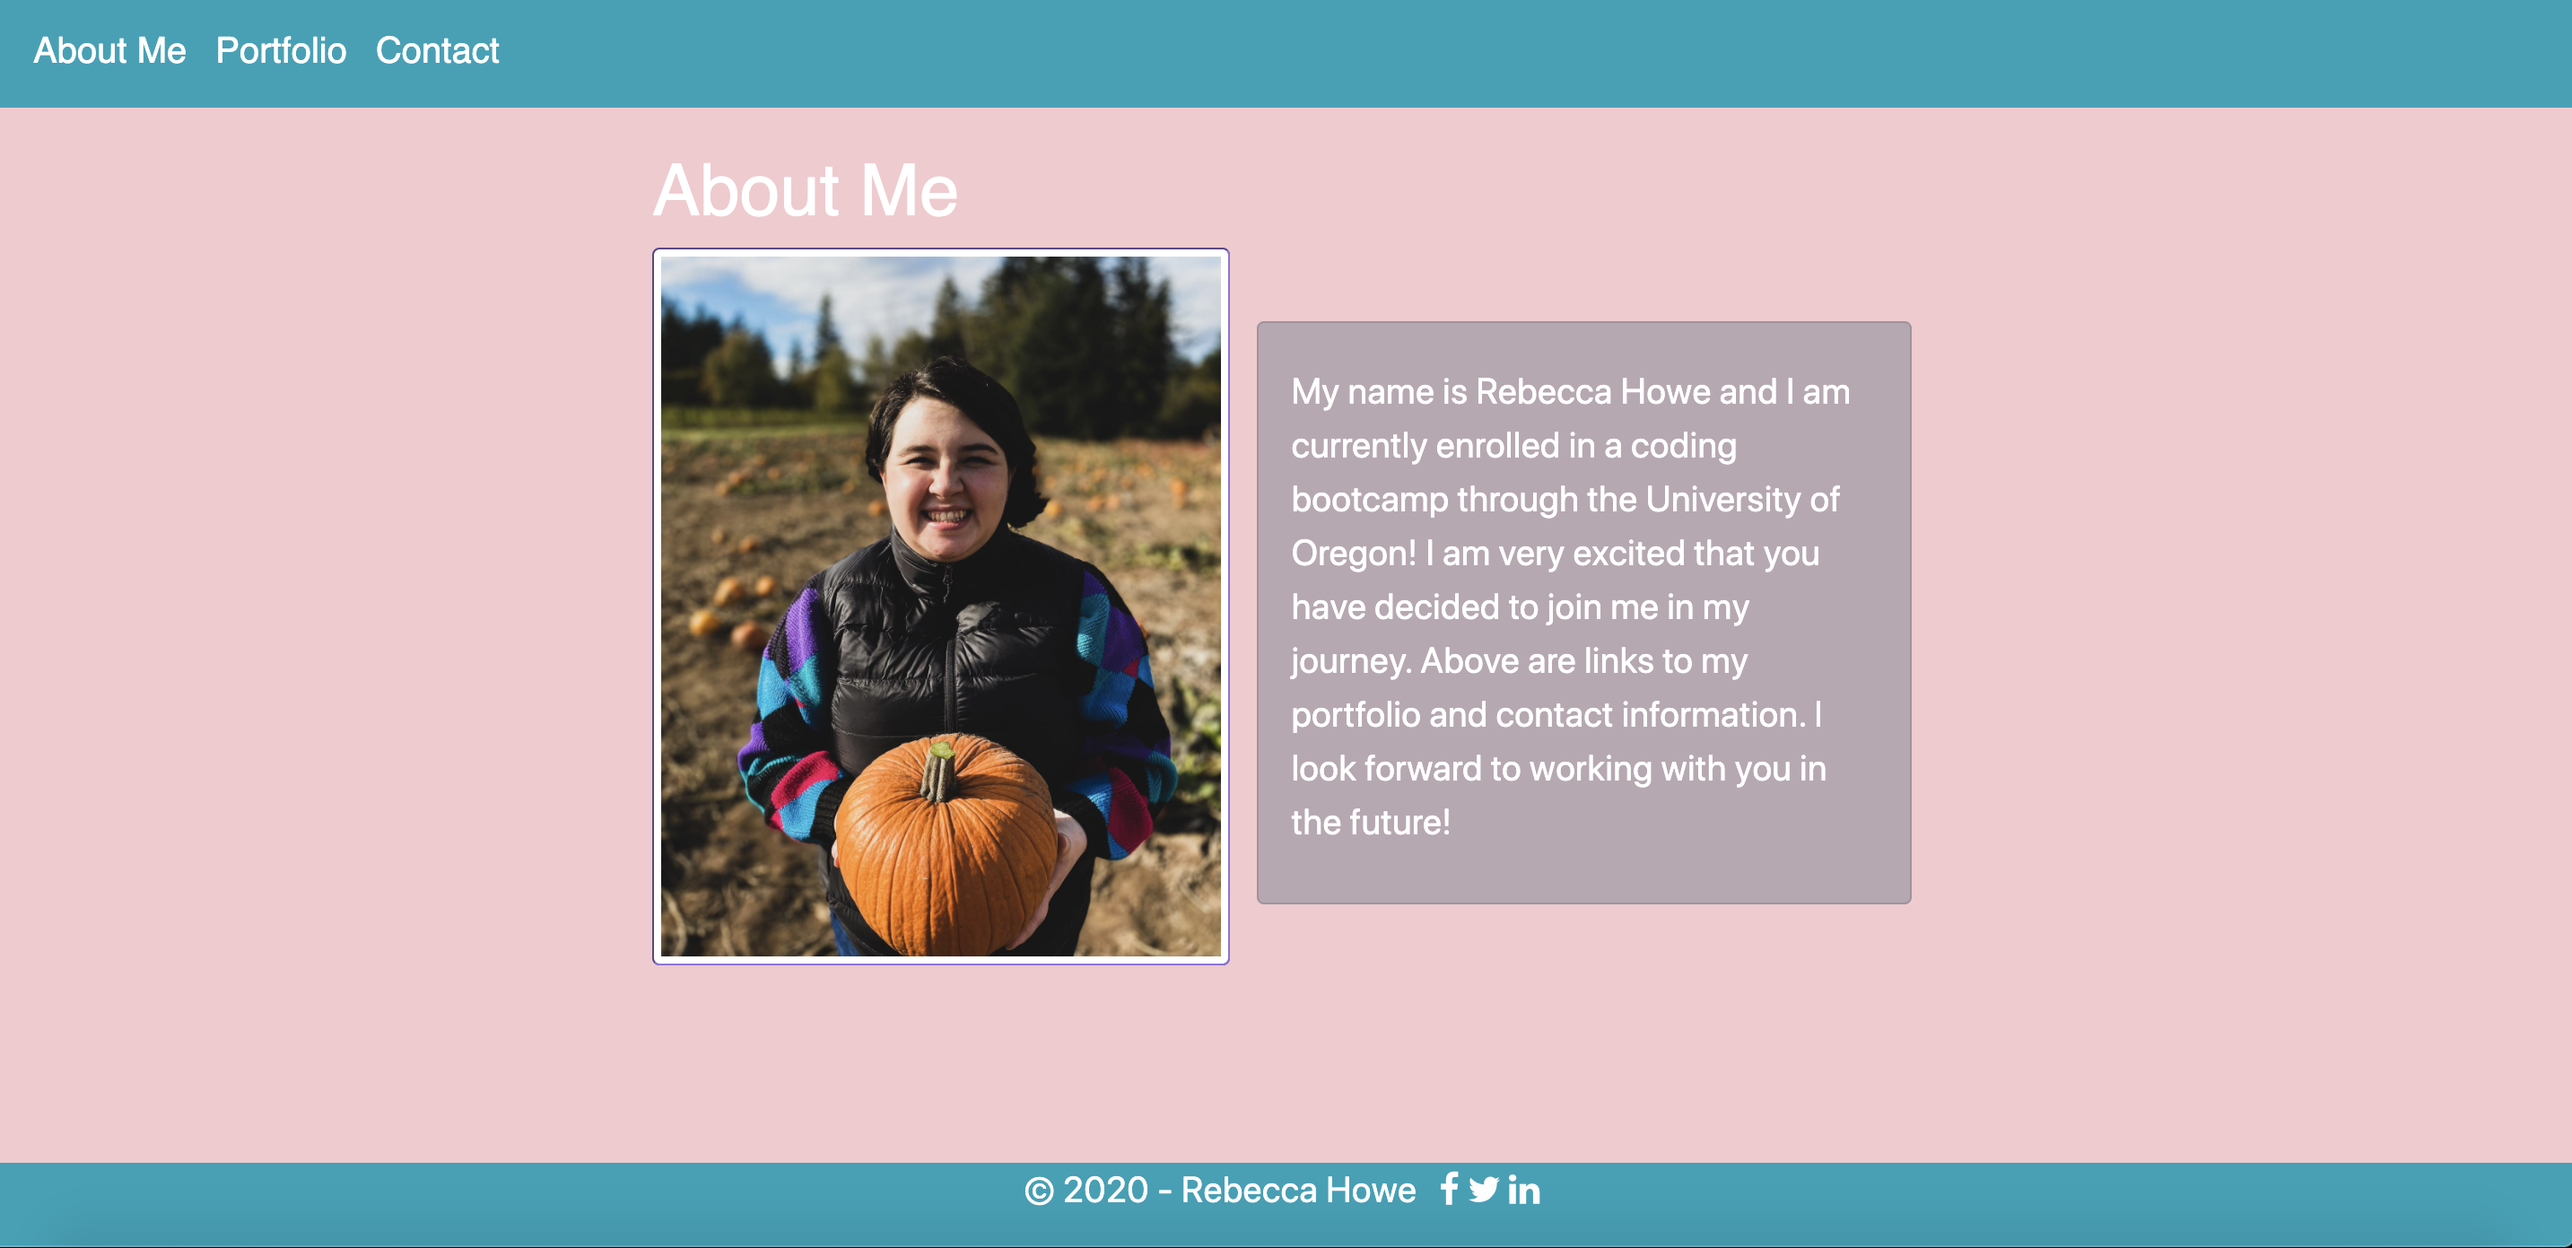
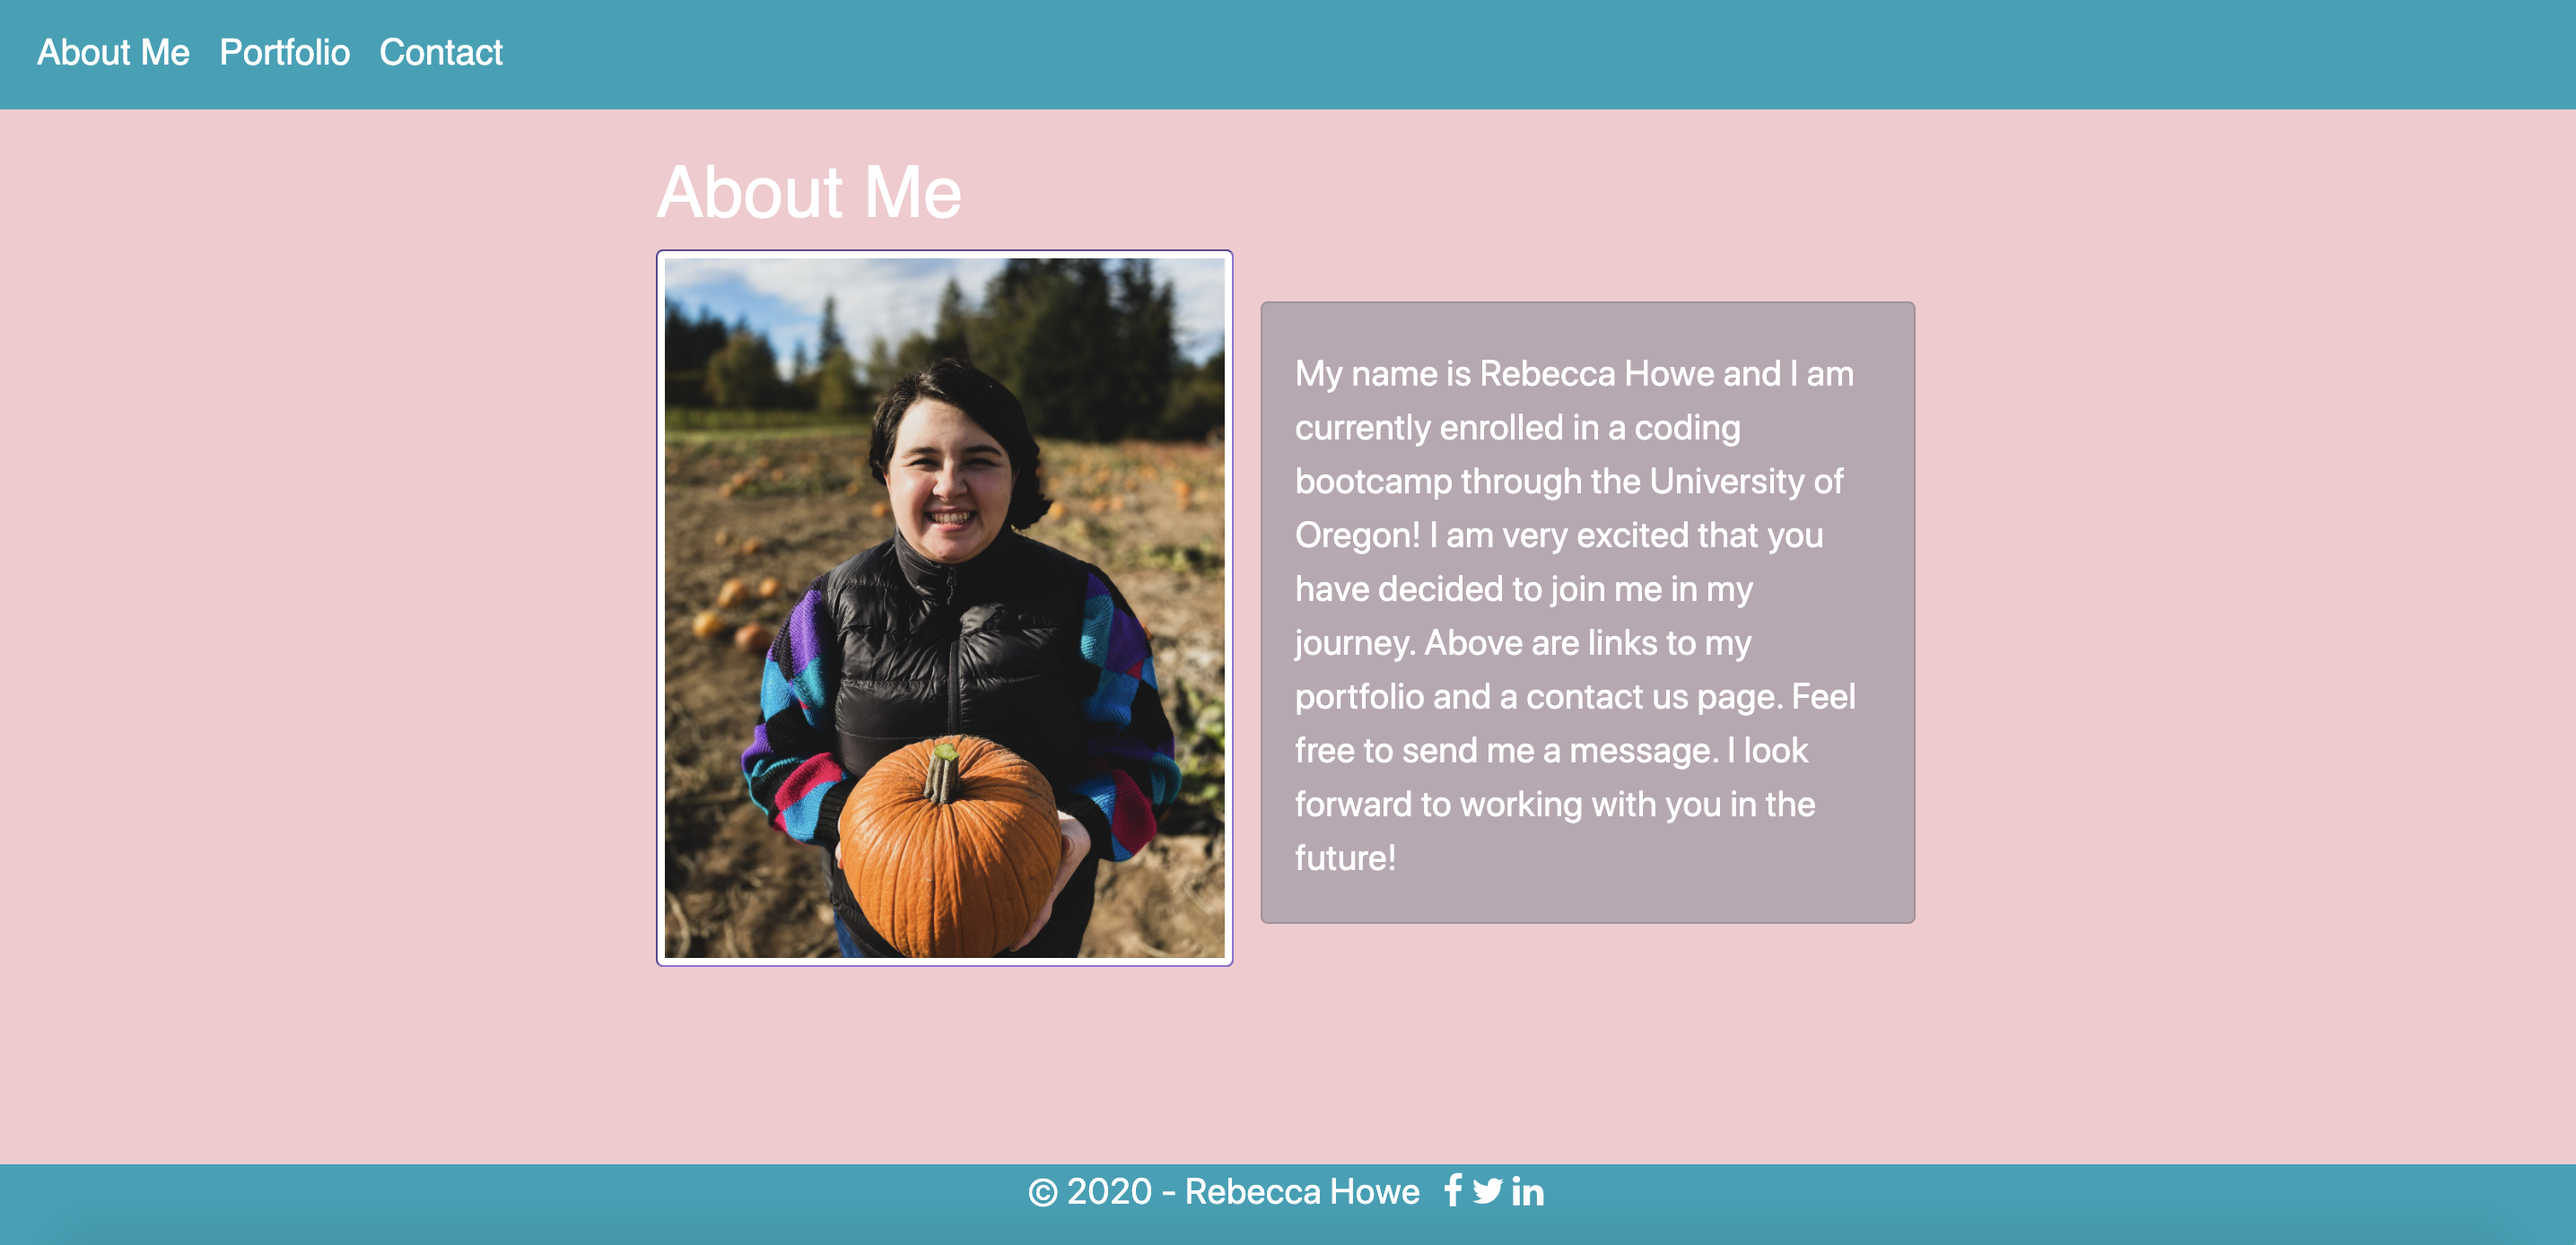
edit about me page and update readme

Changed region(s): [[0.2483, 0.1239, 0.745, 0.7745], [0.0, 0.9294, 1.0, 1.0], [0.0, 0.031, 0.2173, 0.062]]

diff --git a/index.html b/index.html
@@ -35,10 +35,10 @@
                     <h1 class='about-me text-white'>About Me</h1>
                         <img src= './Images/Pumkpin_patch.jpg' alt="Pumkpin_patch" style = 'max-width: 325px; max-height: 400px;' class="img-thumbnail" >
             </section>       
-                <article class = 'col-sm-4' style="margin-top: 9%">
-                    <article class = 'card' style="width: 365px; height:325px ; background-color: rgba(112, 128, 144, 0.459);">   
+                <article class = 'col-sm-4' style="margin-top: 8%">
+                    <article class = 'card' style="width: 365px; height:347px ; background-color: rgba(112, 128, 144, 0.459);">   
                         <p>
-                            My name is Rebecca Howe and I am currently enrolled in a coding bootcamp through the University of Oregon! I am very excited that you have decided to join me in my journey. Above are links to my portfolio and contact information. I look forward to working with you in the future!
+                            My name is Rebecca Howe and I am currently enrolled in a coding bootcamp through the University of Oregon! I am very excited that you have decided to join me in my journey. Above are links to my portfolio and a contact us page. Feel free to send me a message. I look forward to working with you in the future!
                         </p>
                     </article>
                 </article>
